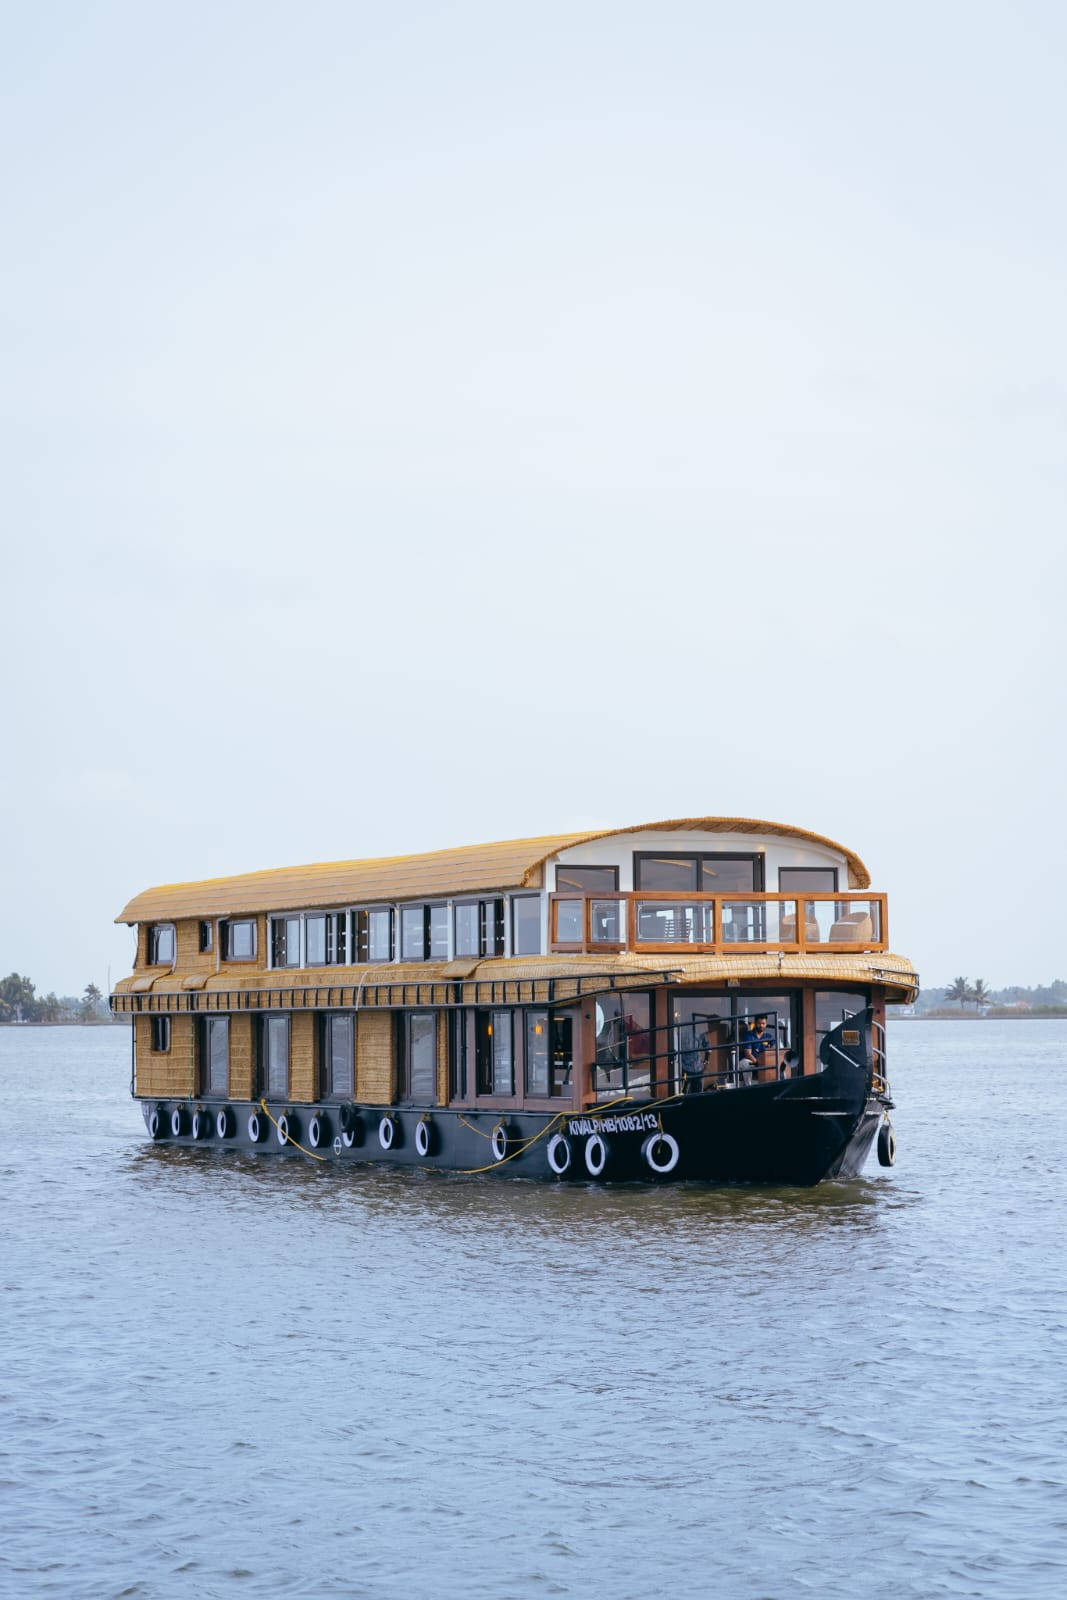
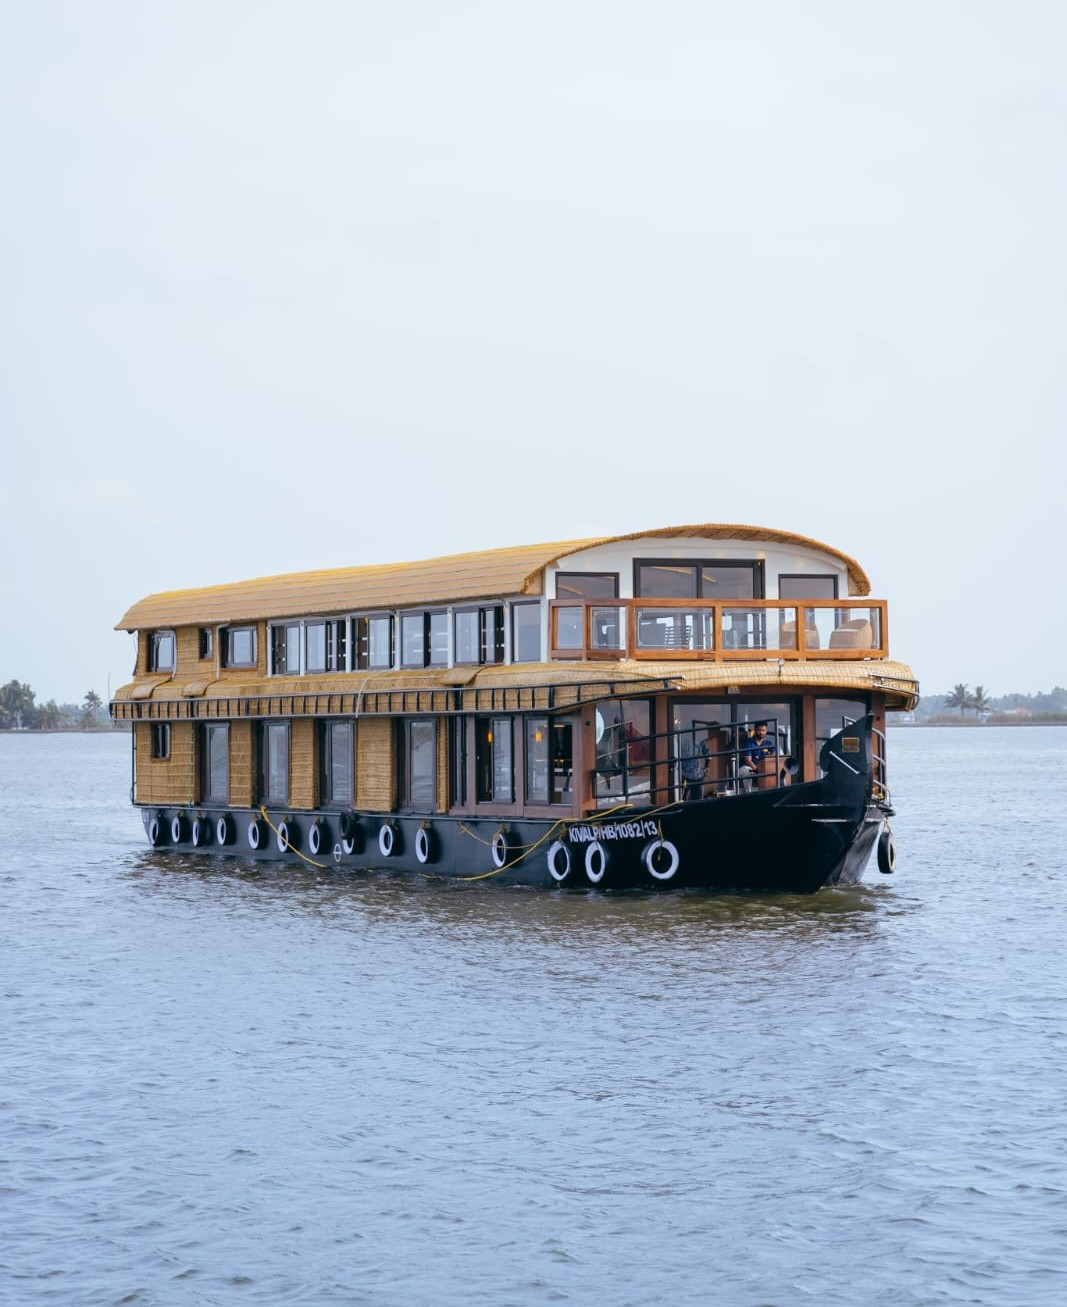
Add files via upload

diff --git a/index.html b/index.html
@@ -2668,7 +2668,7 @@
 
         <!-- REPLACE WITH ACTUAL KAYAL CRUISE IMAGE -->
 
-    <img src="https://commons.wikimedia.org/wiki/Special:Redirect/file/Houseboat_on_Alleppey_backwaters_%28Kerala%2C_India_2023%29_%2852704809623%29.jpg"
+    <img src="5bedluxury.jpeg"
      alt="Alappuzha Backwaters Houseboat">
 
     </div>
@@ -2900,7 +2900,7 @@
 
             <article class="destination-card">
 
-               <img src="https://commons.wikimedia.org/wiki/Special:Redirect/file/House_Boat_Alappuzha.jpg"
+               <img src="1bedultraluxury.jpeg"
      alt="Alappuzha Houseboat">
 
                 <div class="destination-overlay"></div>
@@ -2937,7 +2937,7 @@
 
             <article class="destination-card">
 
-                <img src="https://commons.wikimedia.org/wiki/Special:Redirect/file/KumarakomHouseBoat.jpg"
+                <img src="kumarakom.jpeg"
      alt="Kumarakom Backwaters">
 
                 <div class="destination-overlay"></div>
@@ -3904,6 +3904,23 @@
                 </div>
             </article>
 
+
+             <!-- 2 BED LUXURY -->
+            <article class="collection-boat-card">
+                <div class="collection-boat-image">
+                    <img src="2bedluxury.jpeg"
+                         alt="2 Bedroom Luxury Houseboat">
+                    <span class="collection-boat-tag">LUXURY</span>
+                </div>
+                <div class="collection-boat-content">
+                    <span>2 BEDROOMS</span>
+                    <h3>2 Bed Luxury</h3>
+                    <a href="#" onclick="enquireFleet('2 Bed Luxury Houseboat'); return false;">
+                        Enquire Now <span>→</span>
+                    </a>
+                </div>
+            </article>
+
             <!-- 3 BED LUXURY -->
             <article class="collection-boat-card">
                 <div class="collection-boat-image">
@@ -3915,6 +3932,23 @@
                     <span>3 BEDROOMS</span>
                     <h3>3 Bed Luxury</h3>
                     <a href="#" onclick="enquireFleet('3 Bed Luxury Houseboat'); return false;">
+                        Enquire Now <span>→</span>
+                    </a>
+                </div>
+            </article>
+
+
+            <!-- 3 BED PREMIUM -->
+            <article class="collection-boat-card">
+                <div class="collection-boat-image">
+                    <img src="3bedpremium.jpeg"
+                         alt="3 Bedroom Premium Houseboat">
+                    <span class="collection-boat-tag premium">PREMIUM</span>
+                </div>
+                <div class="collection-boat-content">
+                    <span>3 BEDROOMS</span>
+                    <h3>3 Bed Premium</h3>
+                    <a href="#" onclick="enquireFleet('3 Bed Premium Houseboat'); return false;">
                         Enquire Now <span>→</span>
                     </a>
                 </div>
@@ -3952,37 +3986,9 @@
                 </div>
             </article>
 
-            <!-- 3 BED PREMIUM -->
-            <article class="collection-boat-card">
-                <div class="collection-boat-image">
-                    <img src="3bedpremium.jpeg"
-                         alt="3 Bedroom Premium Houseboat">
-                    <span class="collection-boat-tag premium">PREMIUM</span>
-                </div>
-                <div class="collection-boat-content">
-                    <span>3 BEDROOMS</span>
-                    <h3>3 Bed Premium</h3>
-                    <a href="#" onclick="enquireFleet('3 Bed Premium Houseboat'); return false;">
-                        Enquire Now <span>→</span>
-                    </a>
-                </div>
-            </article>
+            
 
-            <!-- 2 BED LUXURY -->
-            <article class="collection-boat-card">
-                <div class="collection-boat-image">
-                    <img src="2bedluxury.jpeg"
-                         alt="2 Bedroom Luxury Houseboat">
-                    <span class="collection-boat-tag">LUXURY</span>
-                </div>
-                <div class="collection-boat-content">
-                    <span>2 BEDROOMS</span>
-                    <h3>2 Bed Luxury</h3>
-                    <a href="#" onclick="enquireFleet('2 Bed Luxury Houseboat'); return false;">
-                        Enquire Now <span>→</span>
-                    </a>
-                </div>
-            </article>
+           
 
         </div>
 
